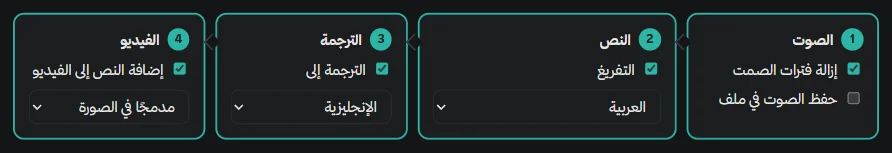
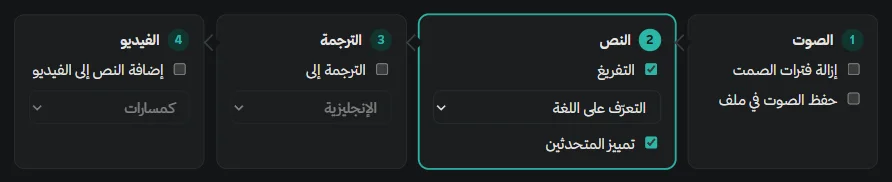
Pictures for 1.4: How to use gains Who said what, and its steps picture shows Tell speakers apart and Detect the language, in English and Arabic; a README screenshot of the speakers' menu; the speaker filter kept narrow

diff --git a/ui/who.css b/ui/who.css
@@ -16,7 +16,7 @@
 #ctx-who:empty { display: none; }
 #ctx-who { display: flex; flex-direction: column; border-top: 1px solid var(--line); margin-top: 4px; padding-top: 4px; }
 
-#search-who { max-width: 180px; }
+#search-who { min-width: 0; max-width: 150px; }
 
 /* words and names */
 .word-list { display: flex; flex-direction: column; gap: 6px; padding: 12px 16px 4px; }

diff --git a/README.md b/README.md
@@ -68,6 +68,8 @@ subscription, no limit on hours.
   at the start of a subtitle when the speaker changes. A translation keeps the same speakers.
 - Search within one speaker's lines. **More ▾ → Find the speakers** does it for an older transcript.
 
+![A meeting in Arabic with the speakers' names where the speaker changes, and a speaker's menu open: Rename, Same person as Speaker 2, Search their lines.](docs/screenshots/speakers.png)
+
 **The language, and your words** (new in 1.4)
 
 - **Detect the language**, at the top of the language menu: Dawwin listens to the first half minute of
